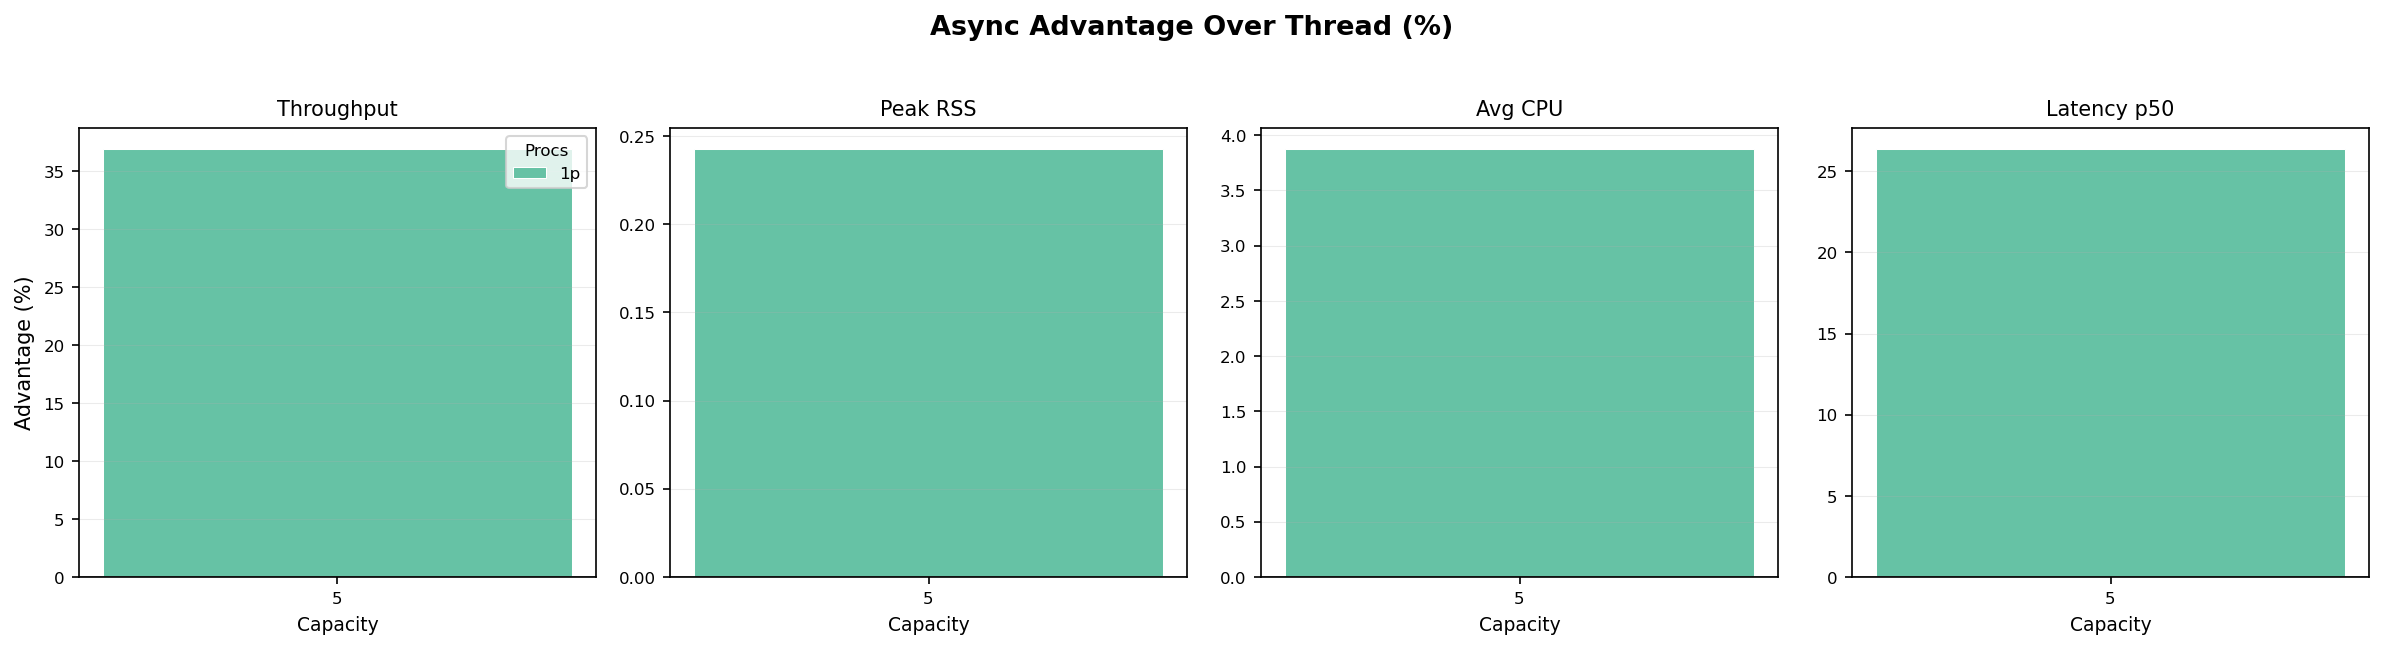
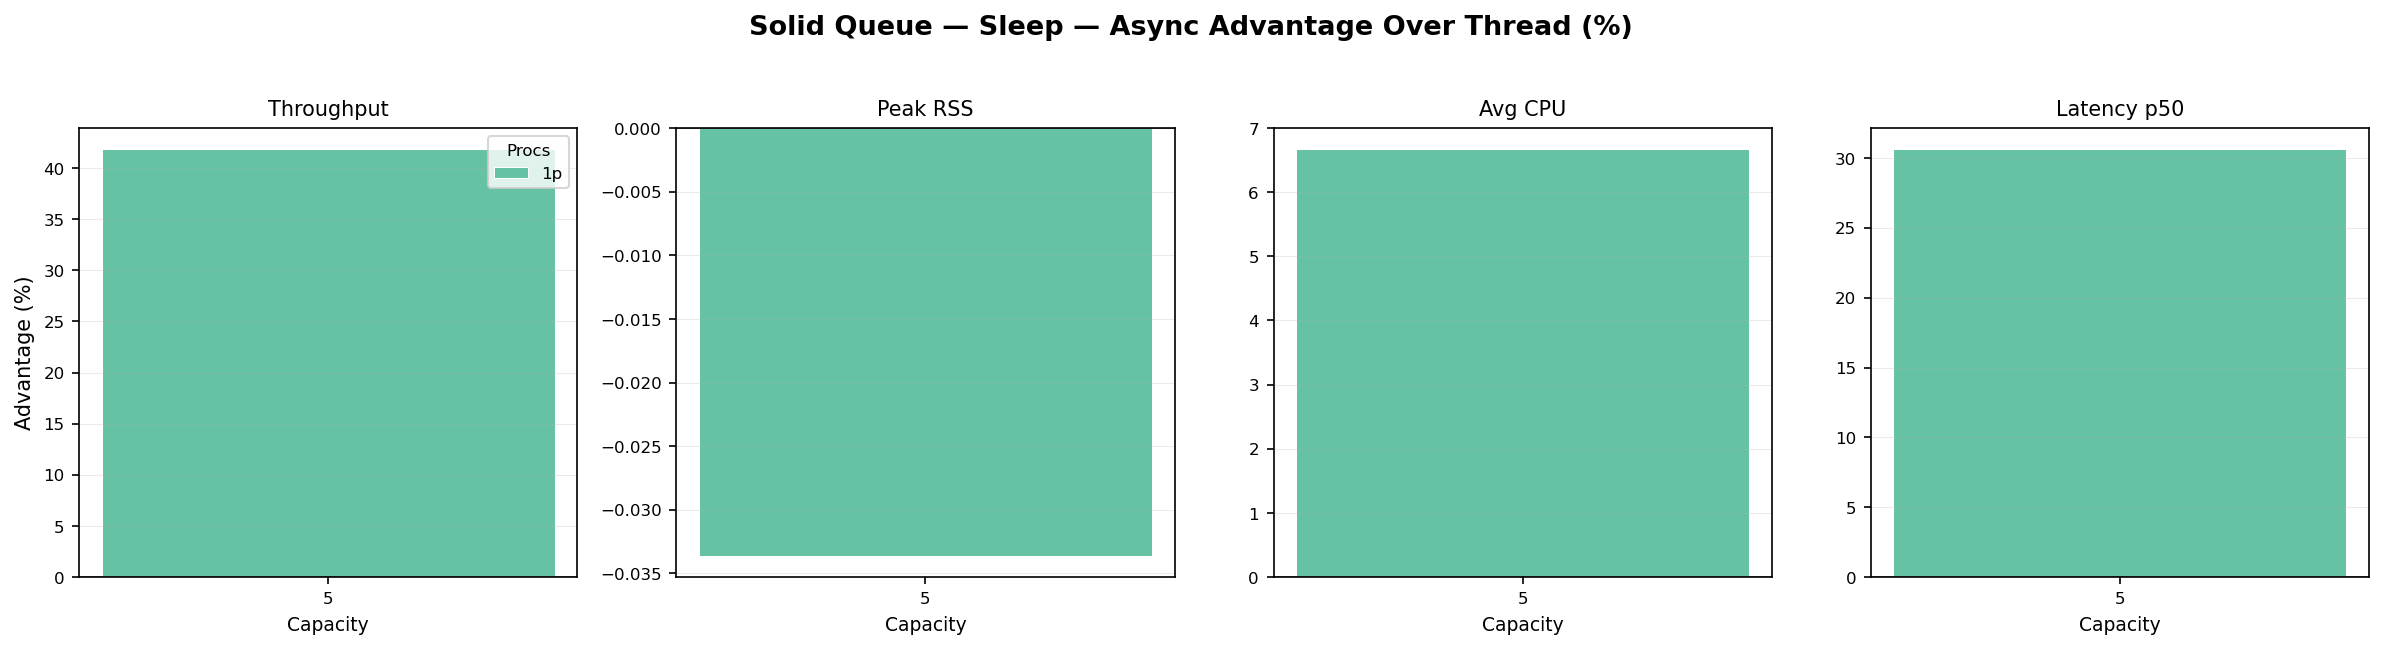
Fixed BenchmarkRun

diff --git a/db/schema.rb b/db/schema.rb
@@ -114,127 +114,6 @@ ActiveRecord::Schema[8.1].define(version: 2026_04_04_123500) do
     t.index ["provider"], name: "index_models_on_provider"
   end
 
-  create_table "solid_queue_blocked_executions", force: :cascade do |t|
-    t.string "concurrency_key", null: false
-    t.datetime "created_at", null: false
-    t.datetime "expires_at", null: false
-    t.bigint "job_id", null: false
-    t.integer "priority", default: 0, null: false
-    t.string "queue_name", null: false
-    t.index ["concurrency_key", "priority", "job_id"], name: "index_solid_queue_blocked_executions_for_release"
-    t.index ["expires_at", "concurrency_key"], name: "index_solid_queue_blocked_executions_for_maintenance"
-    t.index ["job_id"], name: "index_solid_queue_blocked_executions_on_job_id", unique: true
-  end
-
-  create_table "solid_queue_claimed_executions", force: :cascade do |t|
-    t.datetime "created_at", null: false
-    t.bigint "job_id", null: false
-    t.bigint "process_id"
-    t.index ["job_id"], name: "index_solid_queue_claimed_executions_on_job_id", unique: true
-    t.index ["process_id", "job_id"], name: "index_solid_queue_claimed_executions_on_process_id_and_job_id"
-  end
-
-  create_table "solid_queue_failed_executions", force: :cascade do |t|
-    t.datetime "created_at", null: false
-    t.text "error"
-    t.bigint "job_id", null: false
-    t.index ["job_id"], name: "index_solid_queue_failed_executions_on_job_id", unique: true
-  end
-
-  create_table "solid_queue_jobs", force: :cascade do |t|
-    t.string "active_job_id"
-    t.text "arguments"
-    t.string "class_name", null: false
-    t.string "concurrency_key"
-    t.datetime "created_at", null: false
-    t.datetime "finished_at"
-    t.integer "priority", default: 0, null: false
-    t.string "queue_name", null: false
-    t.datetime "scheduled_at"
-    t.datetime "updated_at", null: false
-    t.index ["active_job_id"], name: "index_solid_queue_jobs_on_active_job_id"
-    t.index ["class_name"], name: "index_solid_queue_jobs_on_class_name"
-    t.index ["finished_at"], name: "index_solid_queue_jobs_on_finished_at"
-    t.index ["queue_name", "finished_at"], name: "index_solid_queue_jobs_for_filtering"
-    t.index ["scheduled_at", "finished_at"], name: "index_solid_queue_jobs_for_alerting"
-  end
-
-  create_table "solid_queue_pauses", force: :cascade do |t|
-    t.datetime "created_at", null: false
-    t.string "queue_name", null: false
-    t.index ["queue_name"], name: "index_solid_queue_pauses_on_queue_name", unique: true
-  end
-
-  create_table "solid_queue_processes", force: :cascade do |t|
-    t.datetime "created_at", null: false
-    t.string "hostname"
-    t.string "kind", null: false
-    t.datetime "last_heartbeat_at", null: false
-    t.text "metadata"
-    t.string "name", null: false
-    t.integer "pid", null: false
-    t.bigint "supervisor_id"
-    t.index ["last_heartbeat_at"], name: "index_solid_queue_processes_on_last_heartbeat_at"
-    t.index ["name", "supervisor_id"], name: "index_solid_queue_processes_on_name_and_supervisor_id", unique: true
-    t.index ["supervisor_id"], name: "index_solid_queue_processes_on_supervisor_id"
-  end
-
-  create_table "solid_queue_ready_executions", force: :cascade do |t|
-    t.datetime "created_at", null: false
-    t.bigint "job_id", null: false
-    t.integer "priority", default: 0, null: false
-    t.string "queue_name", null: false
-    t.index ["job_id"], name: "index_solid_queue_ready_executions_on_job_id", unique: true
-    t.index ["priority", "job_id"], name: "index_solid_queue_poll_all"
-    t.index ["queue_name", "priority", "job_id"], name: "index_solid_queue_poll_by_queue"
-  end
-
-  create_table "solid_queue_recurring_executions", force: :cascade do |t|
-    t.datetime "created_at", null: false
-    t.bigint "job_id", null: false
-    t.datetime "run_at", null: false
-    t.string "task_key", null: false
-    t.index ["job_id"], name: "index_solid_queue_recurring_executions_on_job_id", unique: true
-    t.index ["task_key", "run_at"], name: "index_solid_queue_recurring_executions_on_task_key_and_run_at", unique: true
-  end
-
-  create_table "solid_queue_recurring_tasks", force: :cascade do |t|
-    t.text "arguments"
-    t.string "class_name"
-    t.string "command", limit: 2048
-    t.datetime "created_at", null: false
-    t.text "description"
-    t.string "key", null: false
-    t.integer "priority", default: 0
-    t.string "queue_name"
-    t.string "schedule", null: false
-    t.boolean "static", default: true, null: false
-    t.datetime "updated_at", null: false
-    t.index ["key"], name: "index_solid_queue_recurring_tasks_on_key", unique: true
-    t.index ["static"], name: "index_solid_queue_recurring_tasks_on_static"
-  end
-
-  create_table "solid_queue_scheduled_executions", force: :cascade do |t|
-    t.datetime "created_at", null: false
-    t.bigint "job_id", null: false
-    t.integer "priority", default: 0, null: false
-    t.string "queue_name", null: false
-    t.datetime "scheduled_at", null: false
-    t.index ["job_id"], name: "index_solid_queue_scheduled_executions_on_job_id", unique: true
-    t.index ["scheduled_at", "priority", "job_id"], name: "index_solid_queue_dispatch_all"
-  end
-
-  create_table "solid_queue_semaphores", force: :cascade do |t|
-    t.datetime "created_at", null: false
-    t.datetime "expires_at", null: false
-    t.string "key", null: false
-    t.datetime "updated_at", null: false
-    t.integer "value", default: 1, null: false
-    t.index ["expires_at"], name: "index_solid_queue_semaphores_on_expires_at"
-    t.index ["key", "value"], name: "index_solid_queue_semaphores_on_key_and_value"
-    t.index ["key"], name: "index_solid_queue_semaphores_on_key", unique: true
-  end
-
   create_table "tool_calls", force: :cascade do |t|
     t.jsonb "arguments", default: {}
     t.datetime "created_at", null: false
@@ -254,11 +133,5 @@ ActiveRecord::Schema[8.1].define(version: 2026_04_04_123500) do
   add_foreign_key "messages", "chats"
   add_foreign_key "messages", "models"
   add_foreign_key "messages", "tool_calls"
-  add_foreign_key "solid_queue_blocked_executions", "solid_queue_jobs", column: "job_id", on_delete: :cascade
-  add_foreign_key "solid_queue_claimed_executions", "solid_queue_jobs", column: "job_id", on_delete: :cascade
-  add_foreign_key "solid_queue_failed_executions", "solid_queue_jobs", column: "job_id", on_delete: :cascade
-  add_foreign_key "solid_queue_ready_executions", "solid_queue_jobs", column: "job_id", on_delete: :cascade
-  add_foreign_key "solid_queue_recurring_executions", "solid_queue_jobs", column: "job_id", on_delete: :cascade
-  add_foreign_key "solid_queue_scheduled_executions", "solid_queue_jobs", column: "job_id", on_delete: :cascade
   add_foreign_key "tool_calls", "messages"
 end

diff --git a/lib/bench/runner.rb b/lib/bench/runner.rb
@@ -43,6 +43,7 @@ module Bench
 
     def run_mode(mode)
       validate_backend_mode!(mode)
+      ensure_database_ready!
       stop_registered_processes
       ensure_backend_dependencies!
       cleanup_benchmark_tables
@@ -559,6 +560,31 @@ module Bench
       ActiveRecord::Base.connection.execute("TRUNCATE TABLE #{quoted} RESTART IDENTITY CASCADE")
     end
 
+    def ensure_database_ready!
+      missing_tables = required_tables.reject { |table| ActiveRecord::Base.connection.data_source_exists?(table) }
+      missing_columns = required_columns.each_with_object({}) do |(table, columns), hash|
+        klass = table_model(table)
+        klass.reset_column_information
+        absent = columns - klass.column_names
+        hash[table] = absent if absent.any?
+      end
+
+      return if missing_tables.empty? && missing_columns.empty?
+
+      details = []
+      details << "missing tables: #{missing_tables.join(', ')}" if missing_tables.any?
+      missing_columns.each do |table, columns|
+        details << "missing columns on #{table}: #{columns.join(', ')}"
+      end
+
+      raise <<~MSG.strip
+        Benchmark database is not up to date (#{details.join('; ')}).
+        Run `bin/rails db:prepare`.
+        If Solid Queue tables are missing, also run:
+        `bin/rails runner 'unless ActiveRecord::Base.connection.table_exists?(\"solid_queue_jobs\"); load Rails.root.join(\"db/queue_schema.rb\"); end'`
+      MSG
+    end
+
     def stop_registered_processes
       registered_process_pids.each do |pid|
         next if pid == Process.pid
@@ -617,6 +643,38 @@ module Bench
           Array(supervisor_pids).all? { |pid| process_alive?(pid) }
       else
         false
+      end
+    end
+
+    def required_tables
+      tables = %w[benchmark_runs benchmark_executions]
+      tables += %w[solid_queue_processes solid_queue_jobs] if backend == "solid_queue"
+      tables += %w[chats messages models tool_calls] if options[:workload] == "ruby_llm_stream"
+      tables
+    end
+
+    def required_columns
+      columns = {
+        "benchmark_runs" => %w[backend],
+        "benchmark_executions" => %w[
+          child_jobs_enqueued
+          child_jobs_finished
+          child_jobs_failed
+          last_child_enqueued_at
+          last_child_finished_at
+        ]
+      }
+      columns["chats"] = %w[benchmark_execution_id] if options[:workload] == "ruby_llm_stream"
+      columns
+    end
+
+    def table_model(table)
+      case table
+      when "benchmark_runs" then BenchmarkRun
+      when "benchmark_executions" then BenchmarkExecution
+      when "chats" then Chat
+      else
+        raise ArgumentError, "No model mapping for #{table}"
       end
     end
 

diff --git a/results/solid-queue/README.md b/results/solid-queue/README.md
@@ -2,11 +2,11 @@
 
 Generated summary for the benchmark artifacts in this directory.
 
-Latest dataset timestamp: `2026-04-04T12:46:40Z`
+Latest dataset timestamp: `2026-04-04T13:55:41Z`
 
 | Workload | Best Throughput | Lowest RSS | Lowest p50 Latency | Best Async Delta | Files |
 |---|---|---|---|---|---|
-| Sleep | async, cap=5, proc=1, 65.71 jobs/s | async, cap=5, proc=1, 115.76 MB | async, cap=5, proc=1, 8067.30 ms | +36.9% at cap=5, proc=1 | [CSV](sleep-data.csv) / [JSON](sleep-data.json) / [Grid](sleep-grid.png) / [Advantage](sleep-advantage.png) / [Latency](sleep-latency.png) |
+| Sleep | async, cap=5, proc=1, 67.86 jobs/s | thread, cap=5, proc=1, 116.25 MB | async, cap=5, proc=1, 7614.80 ms | +41.8% at cap=5, proc=1 | [CSV](sleep-data.csv) / [JSON](sleep-data.json) / [Grid](sleep-grid.png) / [Advantage](sleep-advantage.png) / [Latency](sleep-latency.png) |
 
 ## Notes
 
